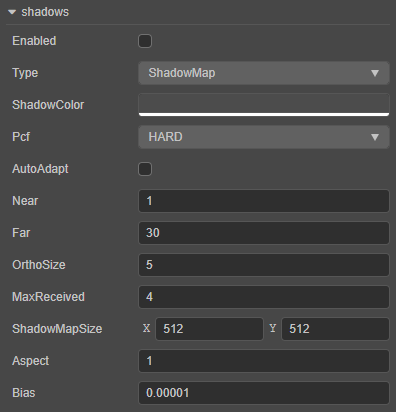
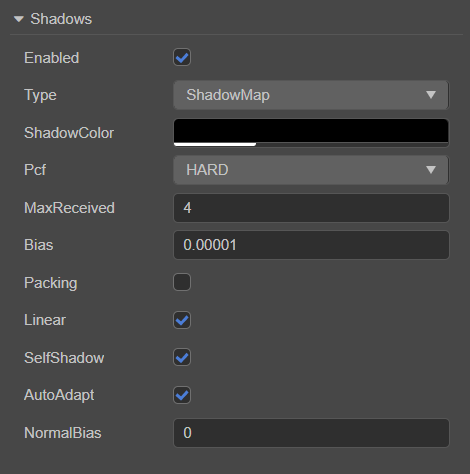
3.1版本修改 1. 补充修改插屏图片2. 更新阴影属性3. 补充场景编辑器功能说明4. 补充构建发布面板 “原生引擎” 的构建选项

diff --git a/zh/editor/scene/index.md b/zh/editor/scene/index.md
@@ -29,6 +29,20 @@
 
 **场景编辑器** 右上角的选项可用于设置场景网格、场景相机参数等，详情请参考下文介绍。
 
+### 参考图设置
+
+通过点击 **场景编辑器** 右上方的按钮 ![scene reference](images/scene-reference.png) ，即可打开 **参考图** 面板，主要用于在 **场景编辑器** 中辅助开发人员拼接 UI 图片，提供对照参考：
+
+![reference](images/reference.png)
+
+| 选项 | 功能说明 |
+| :-- | :-- |
+| 添加 |用于添加 UI 参考图，可添加多张参考图  |
+| 删除 | 用于删除当前选中框中的 UI 参考图 |
+| X | 已选中的 UI 参考图的 X 轴位置 |
+| Y | 已选中的 UI 参考图的 Y 轴位置 |
+| opacity | 已选中的 UI 参考图的透明度 |
+
 ### 网格设置
 
 场景中的网格是我们摆放场景元素时位置的重要参考信息，可通过 **场景编辑器** 右上方的按钮设置：

diff --git a/zh/editor/publish/native-options.md b/zh/editor/publish/native-options.md
@@ -43,6 +43,10 @@
 
 ![encrypt js](publish-native/encrypt-js.png)
 
+#### 原生引擎
+
+该项用于可以选择使用内置引擎版本或定制引擎，点击该项可以打开偏好设置面板中的引擎管理器选项，详细的定制引擎流程，可以查看 [引擎定制工作流程](../../advanced-topics/engine-customization.md)
+
 ### Android 平台构建选项
 
 Android 平台的构建选项如下：
